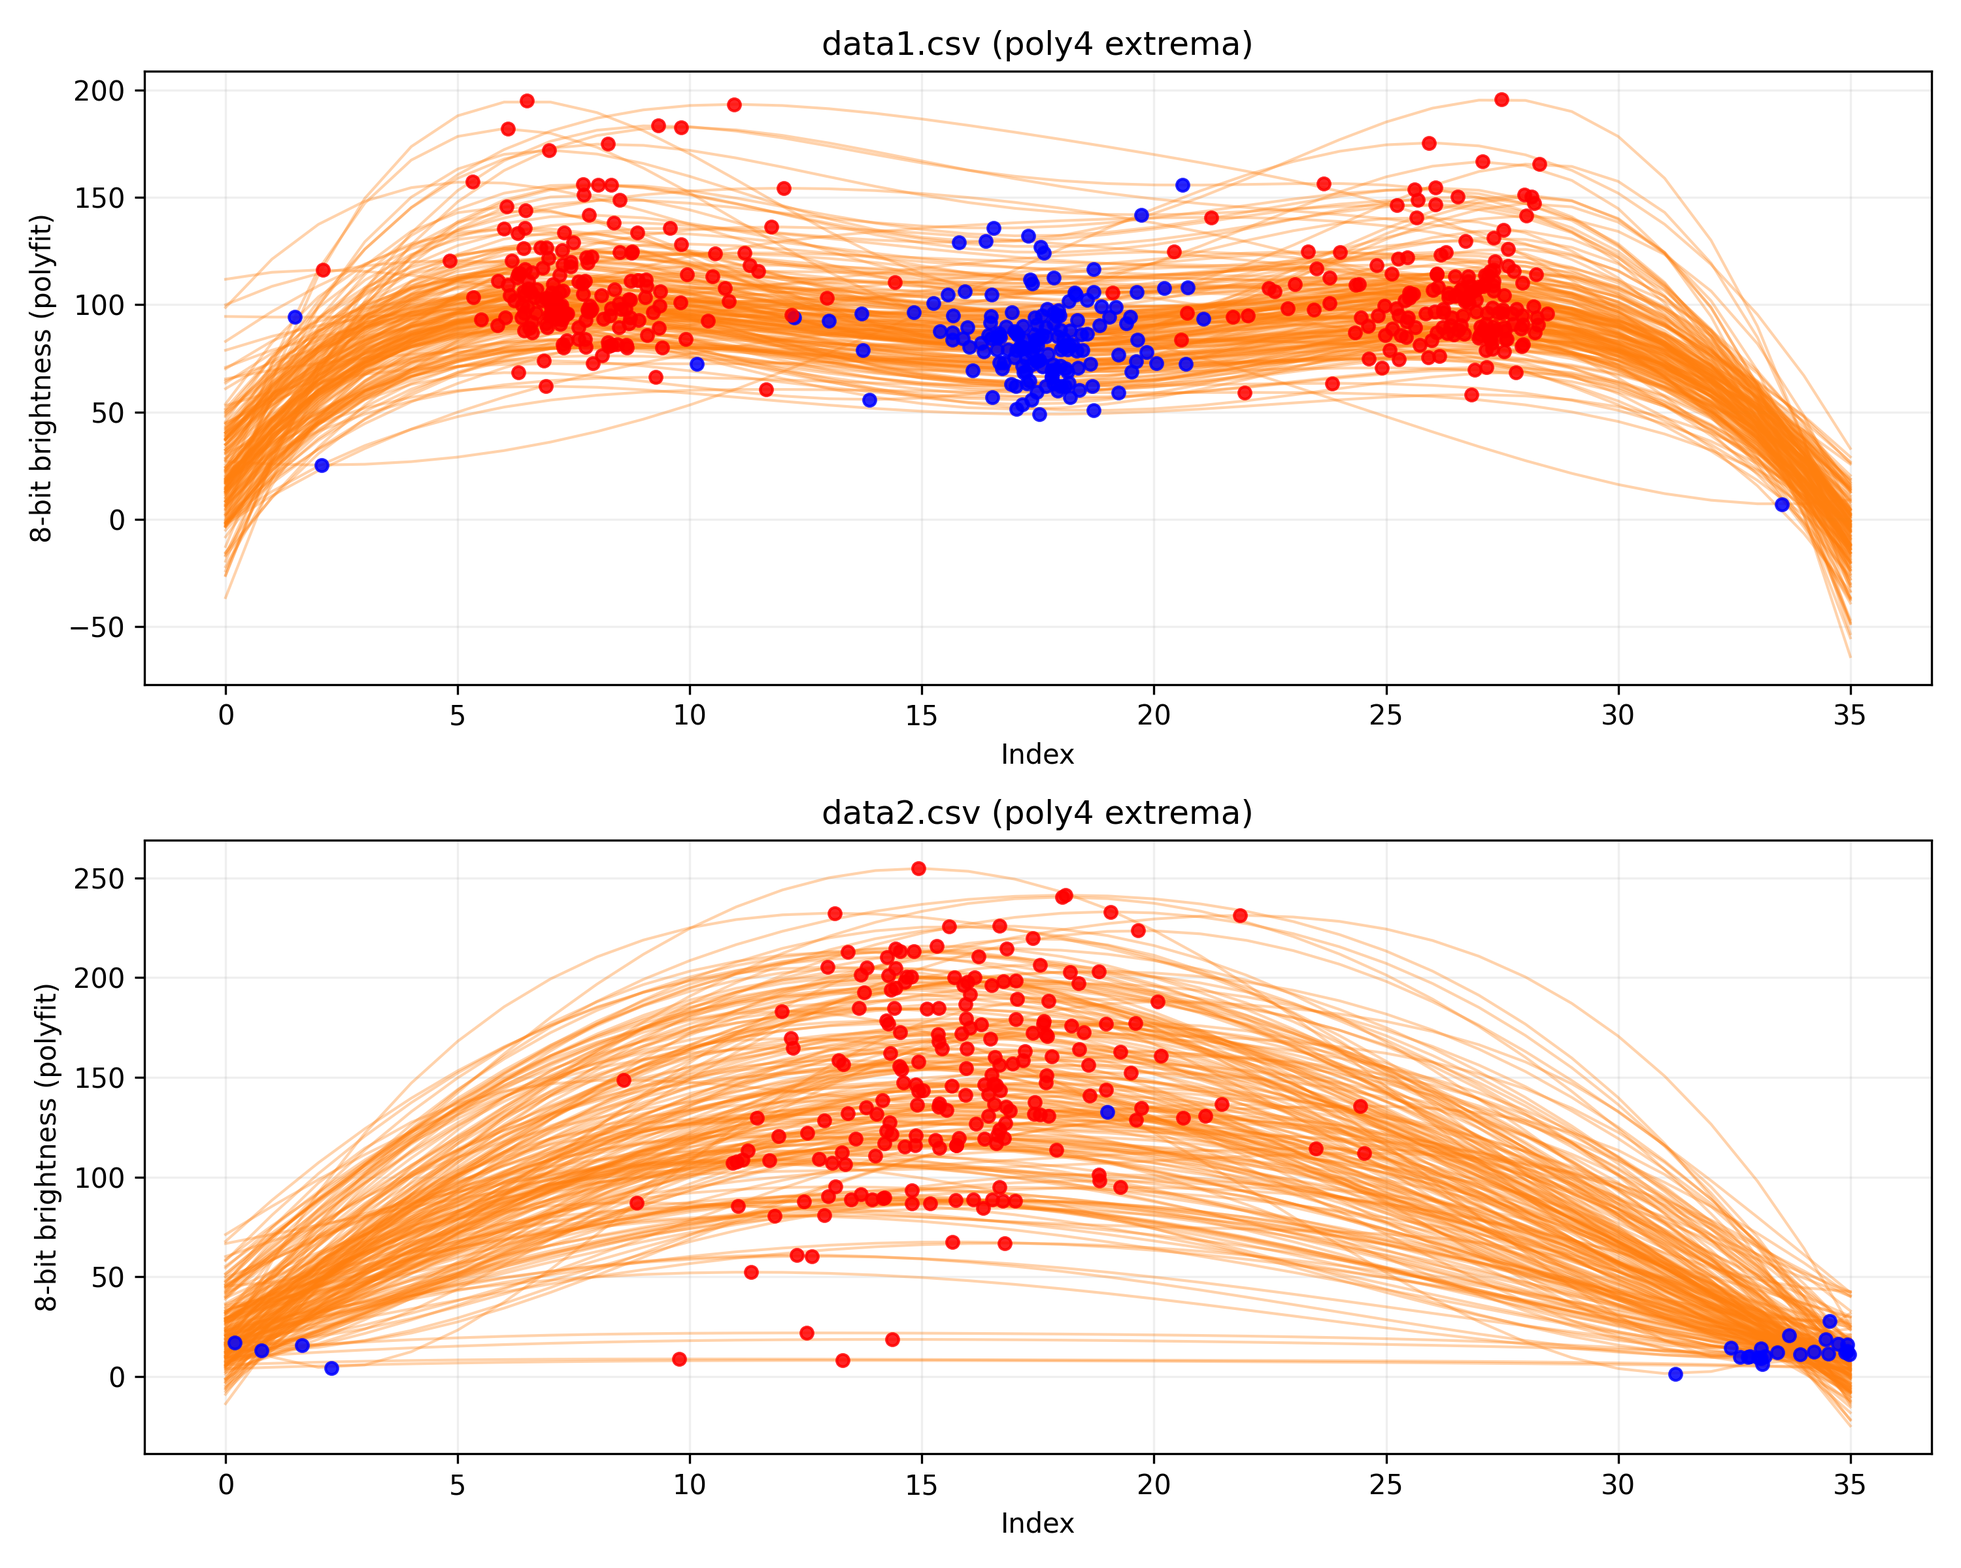
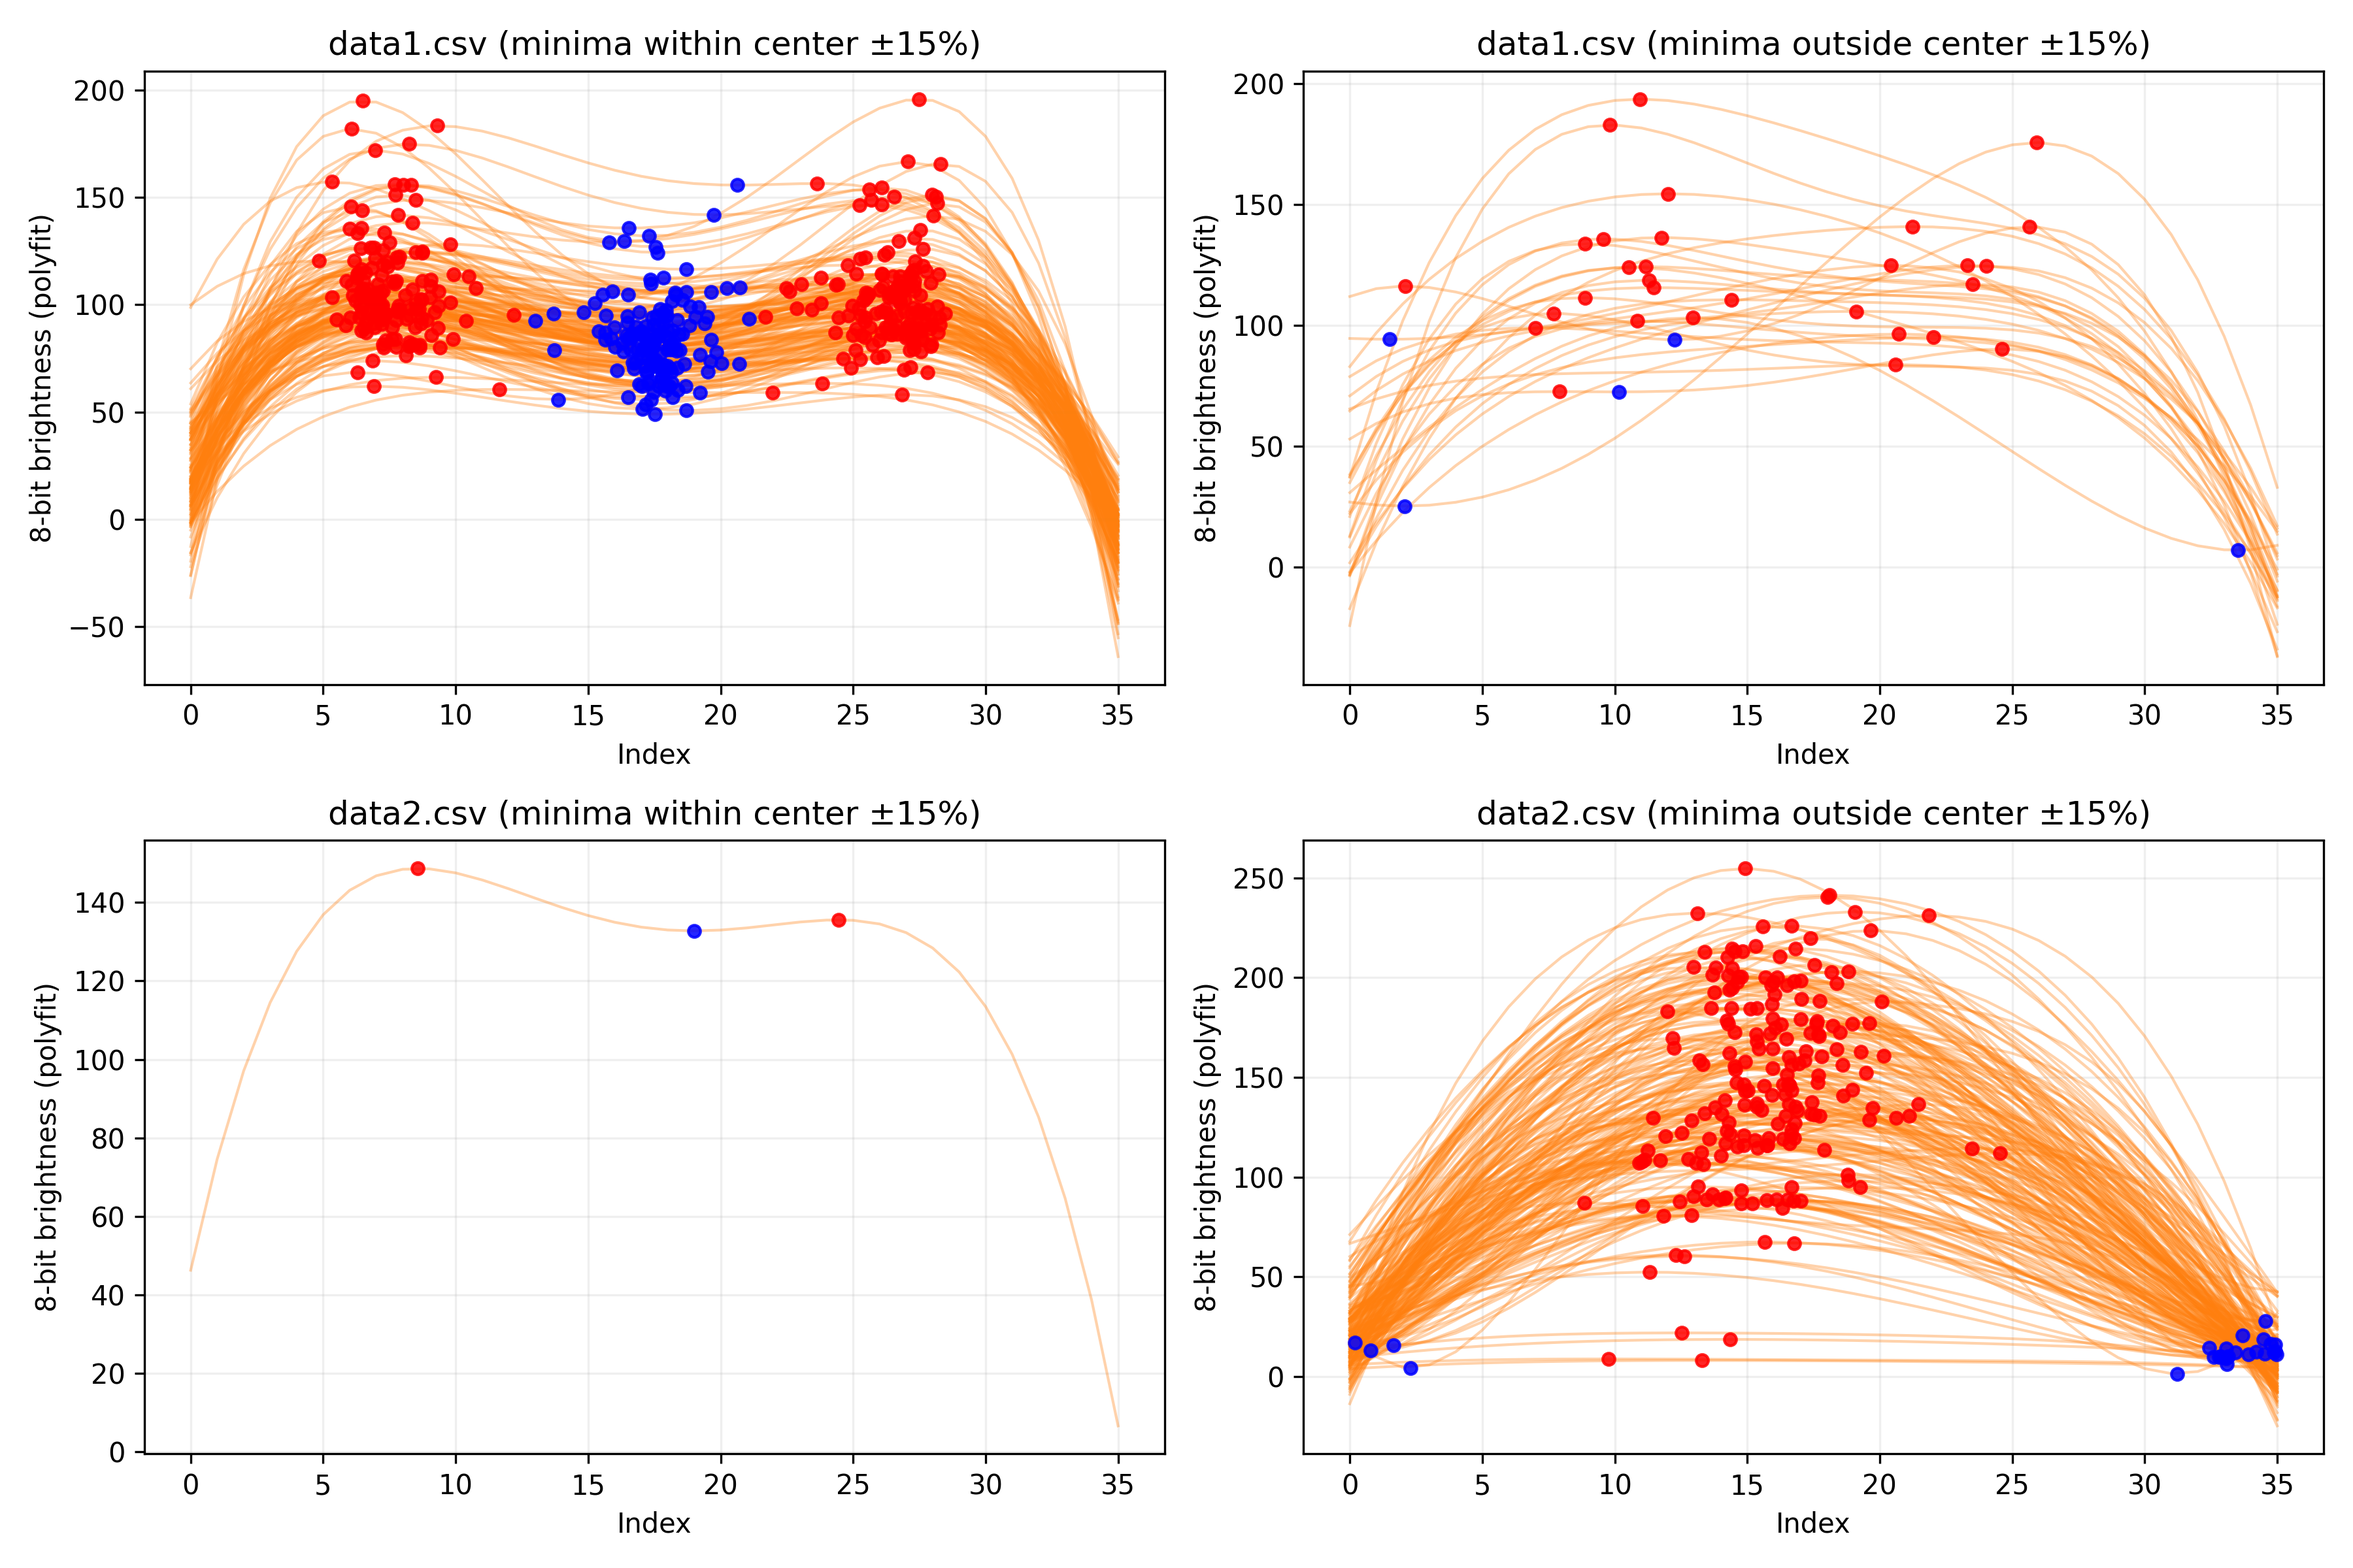
T

diff --git a/main.py b/main.py
@@ -107,6 +107,32 @@ class HU:
         ax.grid(True, alpha=0.2)
 
     @classmethod
+    def _split_series_by_center_minima(
+        cls,
+        series: list[list[float]],
+        degree: int,
+        center_ratio: float,
+    ) -> tuple[list[list[float]], list[list[float]]]:
+        within = []
+        outside = []
+        for values in series:
+            if len(values) <= degree:
+                continue
+            x = np.arange(len(values))
+            coeffs = np.polyfit(x, values, degree)
+            _, x_minima = cls._polyfit_extrema_x(coeffs, 0, len(values) - 1)
+            if x_minima.size == 0:
+                outside.append(values)
+                continue
+            center = (len(values) - 1) / 2.0
+            threshold = center_ratio * (len(values) - 1)
+            if np.any(np.abs(x_minima - center) <= threshold):
+                within.append(values)
+            else:
+                outside.append(values)
+        return within, outside
+
+    @classmethod
     def run(
         cls,
         data_paths: tuple[str, ...] = ("data1.csv", "data2.csv"),
@@ -146,15 +172,34 @@ class HU:
         data_paths: tuple[str, ...] = ("data1.csv", "data2.csv"),
         output_path: str = "overlay_polyfit_extrema.png",
         degree: int = 4,
+        center_ratio: float = 0.15,
     ) -> None:
         series_list = [cls.read_even_lines(path) for path in data_paths]
-        fig_height = 4 * len(data_paths)
-        fig, axes = plt.subplots(nrows=len(data_paths), ncols=1, figsize=(10, fig_height))
-        if len(data_paths) == 1:
-            axes = [axes]
-        for ax, series, title in zip(axes, series_list, data_paths):
-            plot_title = f"{title} (poly{degree} extrema)"
-            cls.plot_polyfit_extrema_overlay(ax, series, plot_title, degree=degree)
+        nrows = len(data_paths)
+        fig_height = 4 * nrows
+        fig, axes = plt.subplots(nrows=nrows, ncols=2, figsize=(12, fig_height))
+        axes = np.atleast_2d(axes)
+        percent = int(center_ratio * 100)
+        for row_index, (series, title) in enumerate(zip(series_list, data_paths)):
+            within, outside = cls._split_series_by_center_minima(
+                series,
+                degree=degree,
+                center_ratio=center_ratio,
+            )
+            within_title = f"{title} (minima within center ±{percent}%)"
+            outside_title = f"{title} (minima outside center ±{percent}%)"
+            cls.plot_polyfit_extrema_overlay(
+                axes[row_index, 0],
+                within,
+                within_title,
+                degree=degree,
+            )
+            cls.plot_polyfit_extrema_overlay(
+                axes[row_index, 1],
+                outside,
+                outside_title,
+                degree=degree,
+            )
         fig.tight_layout()
         plt.savefig(output_path, dpi=300)
 
